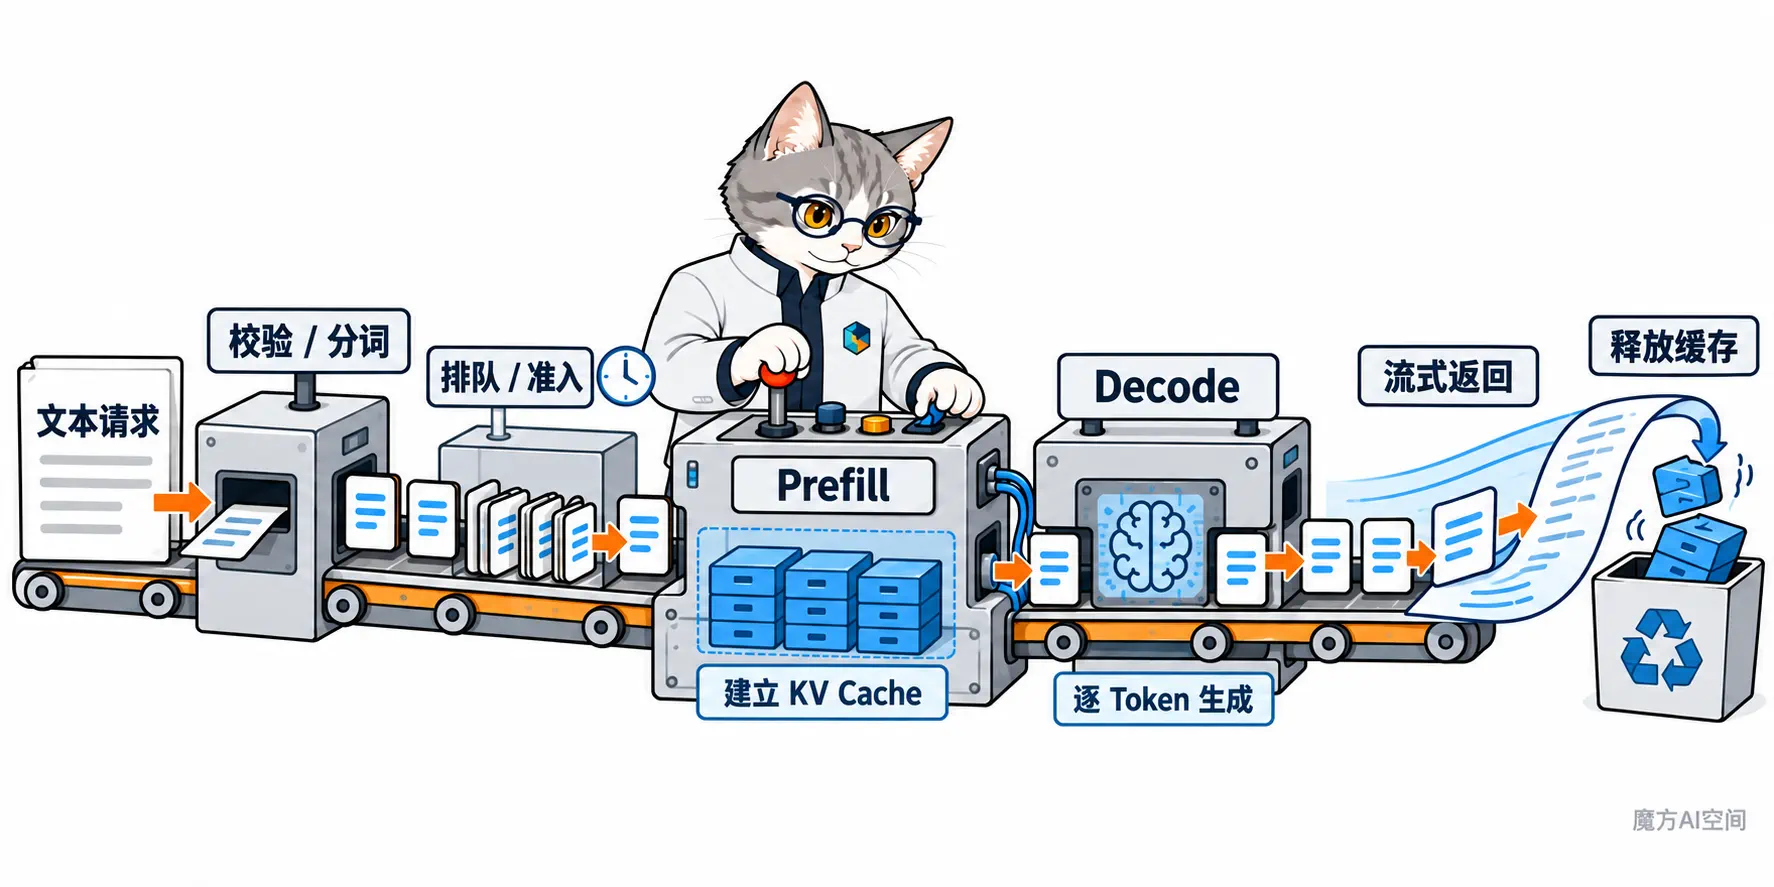
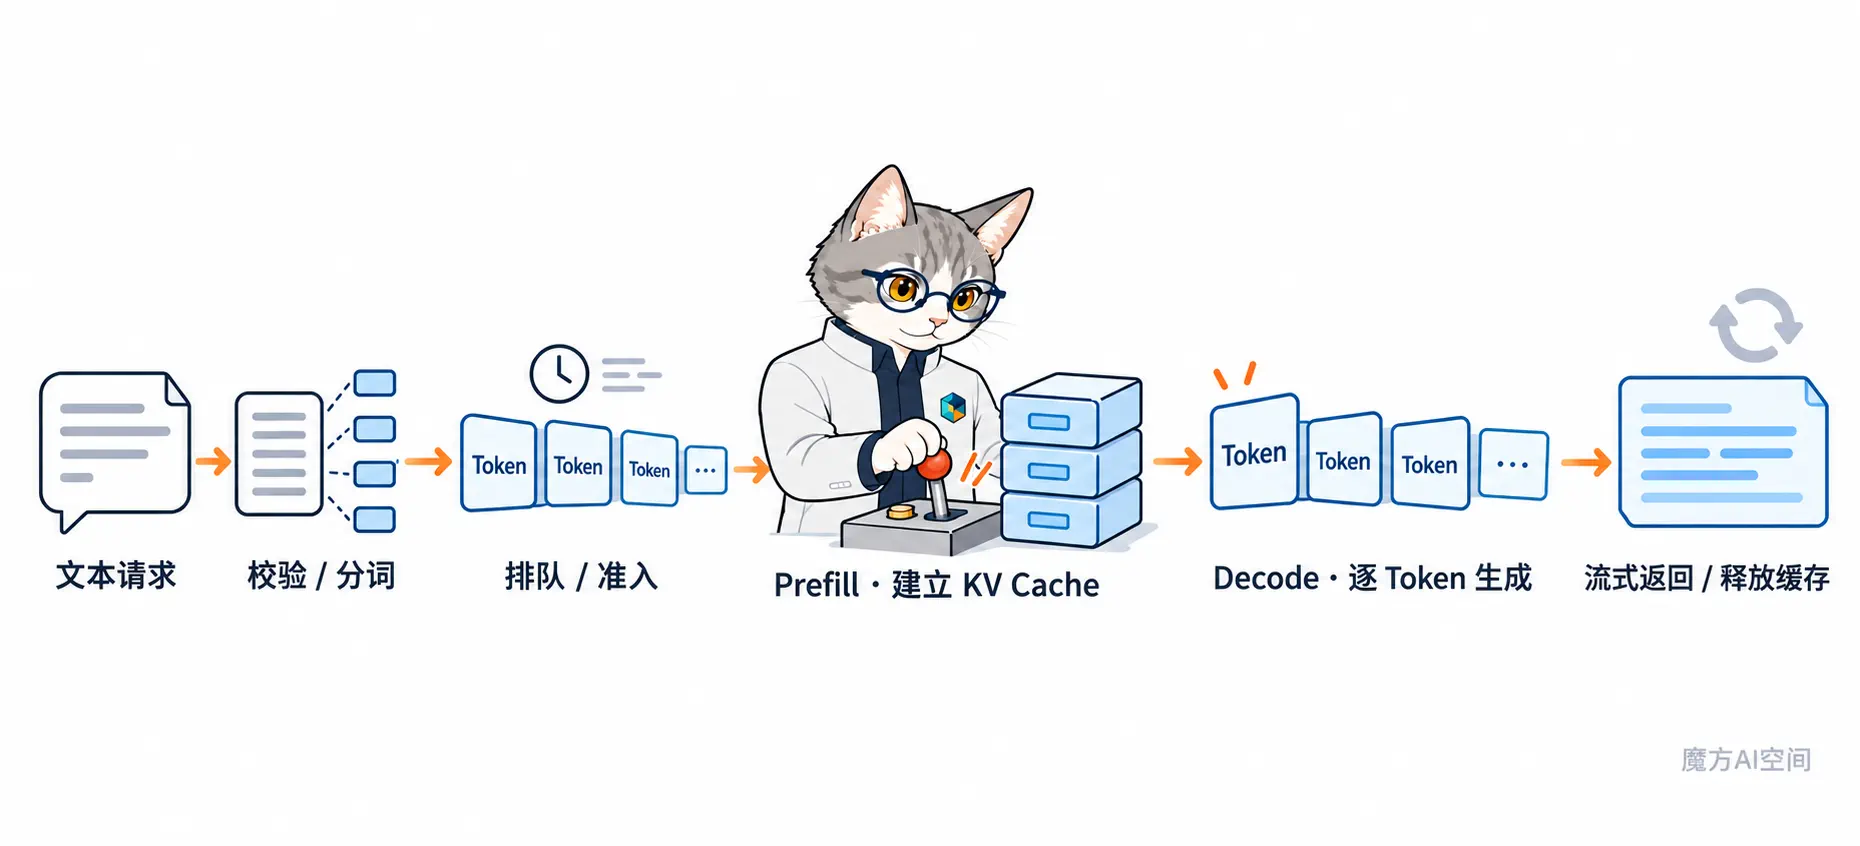
update

Changed region(s): [[0.0, 0.0922, 1.0, 0.8298], [0.8991, 0.8605, 0.9921, 0.9527]]

diff --git a/09_大模型推理与部署/01_推理系统基础/README.md b/09_大模型推理与部署/01_推理系统基础/README.md
@@ -52,11 +52,15 @@
   → 请求结束并释放缓存
 ```
 
-![一次大模型推理请求的生命周期](./imgs/request-lifecycle.webp)
+这条链路中的状态变化、KV Cache 建立和逐 Token 输出过程如图 2 所示。
+
+<p align="center">
+  <img src="./imgs/request-lifecycle.webp" alt="一次大模型推理请求的生命周期" width="640">
+</p>
 
 <p align="center"><em>图 2：一次大模型推理请求的生命周期</em></p>
 
-如图 2 所示，请求可能在每一层等待。端到端延迟因此不只等于 GPU 计算时间，还可能包含网络、排队、预处理和响应传输。
+请求可能在每一层等待。端到端延迟因此不只等于 GPU 计算时间，还可能包含网络、排队、预处理和响应传输。
 
 ## 4. 单卡、多卡与多副本
 
